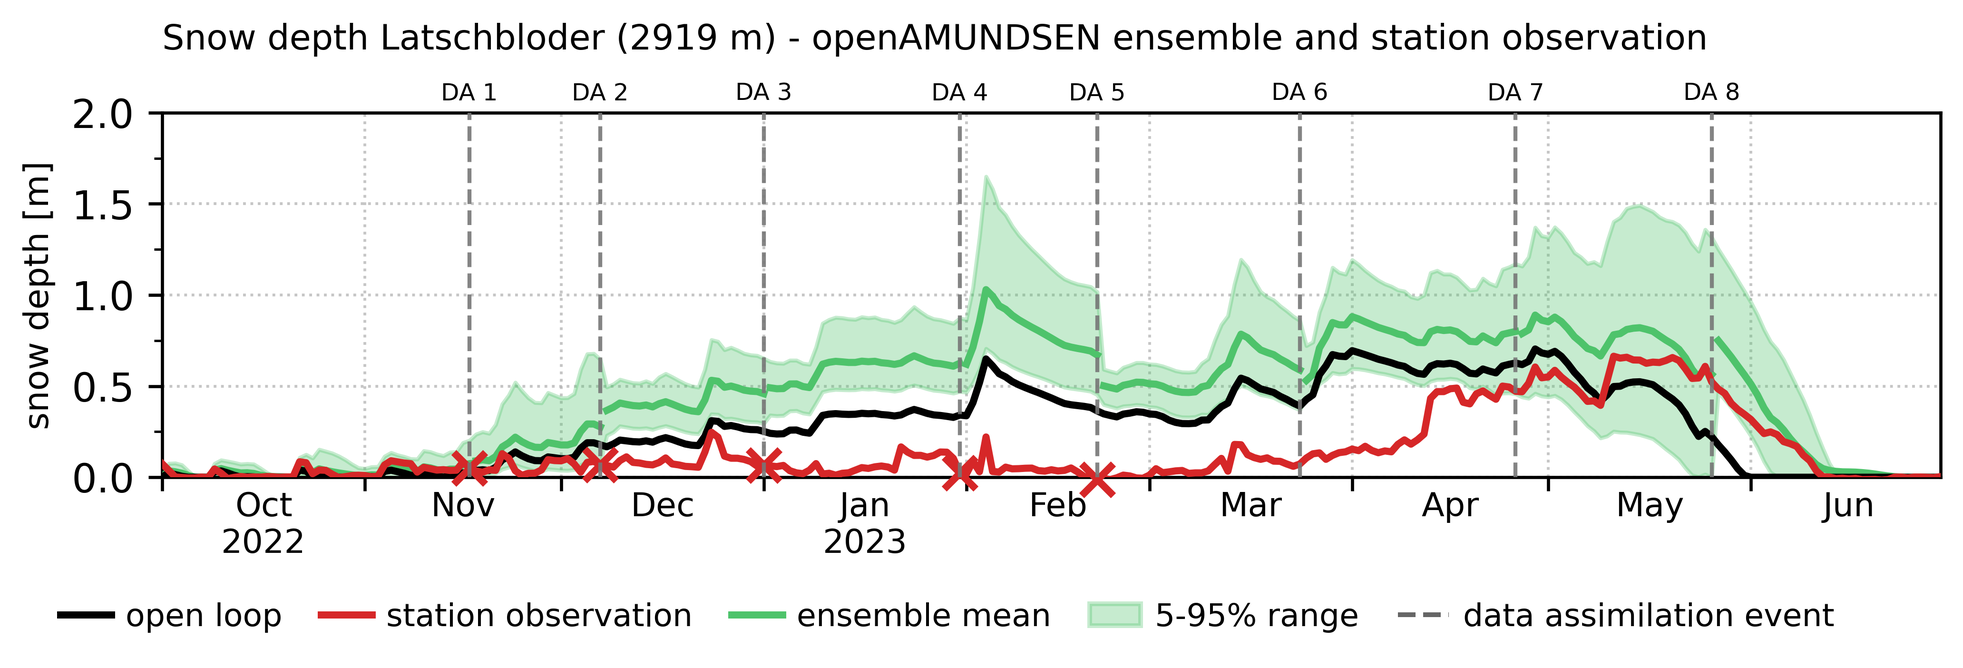
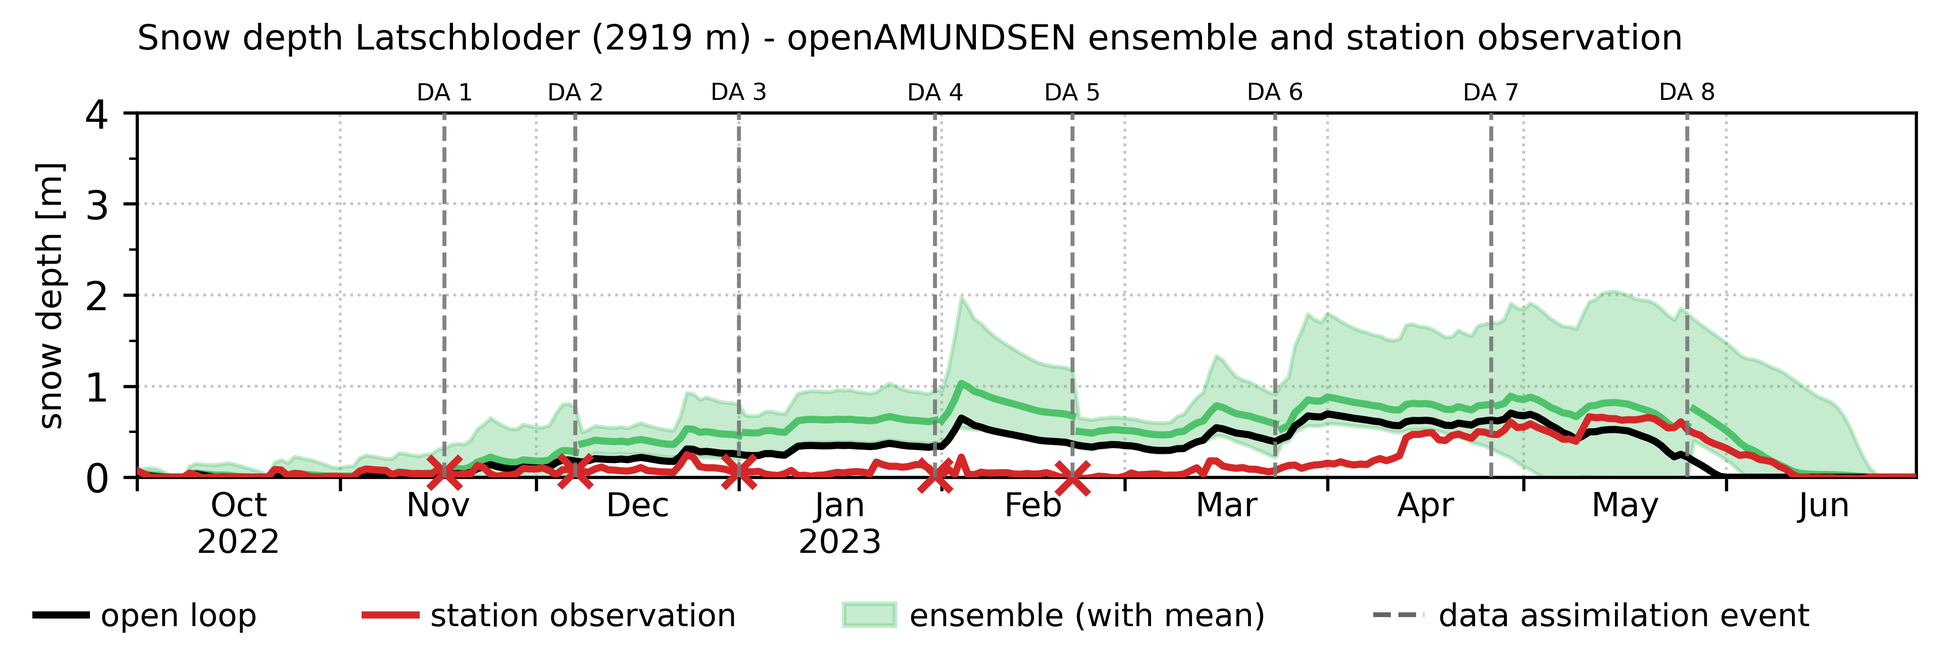
feat(viz): use full ensemble range in seasonal plots

diff --git a/tests/unit/test_plot_result_overview.py b/tests/unit/test_plot_result_overview.py
@@ -145,7 +145,7 @@ def _assert_figure_legends_clear_axes(fig) -> None:
         assert all(not legend_bbox.overlaps(other_bbox) for other_bbox in legend_bboxes[idx + 1 :])
 
 
-def test_default_wsl_overview_env_uses_prior_member_mean_quantiles_and_preserves_gaps(tmp_path: Path) -> None:
+def test_default_wsl_overview_env_uses_prior_member_mean_minmax_and_preserves_gaps(tmp_path: Path) -> None:
     project_dir = tmp_path / "project"
     member_001 = project_dir / "steps" / "step_00" / "ensembles" / "prior" / "member_001" / "results"
     member_002 = project_dir / "steps" / "step_00" / "ensembles" / "prior" / "member_002" / "results"
@@ -170,14 +170,14 @@ def test_default_wsl_overview_env_uses_prior_member_mean_quantiles_and_preserves
     assert env is not None
     assert list(env["date"]) == list(pd.to_datetime(["2023-04-29", "2023-05-11", "2023-05-15"]))
     assert env.iloc[0]["value_mean"] == 2450.0
-    assert env.iloc[0]["value_min"] == pytest.approx(2405.0)
-    assert env.iloc[0]["value_max"] == pytest.approx(2495.0)
+    assert env.iloc[0]["value_min"] == pytest.approx(2400.0)
+    assert env.iloc[0]["value_max"] == pytest.approx(2500.0)
     assert pd.isna(env.iloc[1]["value_mean"])
     assert pd.isna(env.iloc[1]["value_min"])
     assert pd.isna(env.iloc[1]["value_max"])
     assert env.iloc[2]["value_mean"] == 2650.0
-    assert env.iloc[2]["value_min"] == pytest.approx(2605.0)
-    assert env.iloc[2]["value_max"] == pytest.approx(2695.0)
+    assert env.iloc[2]["value_min"] == pytest.approx(2600.0)
+    assert env.iloc[2]["value_max"] == pytest.approx(2700.0)
     assert list(env["n"]) == [2.0, 0.0, 2.0]
 
 
@@ -197,8 +197,8 @@ def test_load_wsl_prior_coverage_frame_uses_value_model_from_weights_csv(tmp_pat
     assert frame is not None
     assert list(frame["date"]) == [pd.Timestamp("2023-05-11")]
     assert list(frame["value_mean"]) == [2500.0]
-    assert list(frame["value_min"]) == pytest.approx([2410.0])
-    assert list(frame["value_max"]) == pytest.approx([2590.0])
+    assert list(frame["value_min"]) == pytest.approx([2400.0])
+    assert list(frame["value_max"]) == pytest.approx([2600.0])
     assert list(frame["value_obs"]) == [2550.0]
     assert list(frame["n"]) == [2]
 
@@ -1034,7 +1034,7 @@ def test_plot_result_overview_uses_panel_local_legend_labels(tmp_path: Path) -> 
         assert legend_handles[1].get_color() == "#d62728"
         assert legend_handles[-1].get_color() == "#777777"
         ensemble_handle = legend_handles[3]
-        assert ensemble_handle.get_label() == "ensemble mean + 5-95% range"
+        assert ensemble_handle.get_label() == "ensemble (with mean)"
         assert isinstance(ensemble_handle, tuple)
         assert isinstance(ensemble_handle[0], Patch)
         assert isinstance(ensemble_handle[1], Line2D)
@@ -1201,7 +1201,7 @@ def test_plot_result_overview_custom_legend_includes_station_observation_when_dr
         assert len(plt.gcf().legends) == 0
         assert _axis_legend_labels(axes[1]) == [
             "open loop",
-            "ensemble mean + 5-95% range",
+            "ensemble (with mean)",
             "station observation",
         ]
         _assert_panel_legend_style(axes[1], loc=2)
@@ -1246,7 +1246,7 @@ def test_plot_result_overview_custom_legend_omits_station_observation_when_hidde
         assert len(plt.gcf().legends) == 0
         assert _axis_legend_labels(axes[1]) == [
             "open loop",
-            "ensemble mean + 5-95% range",
+            "ensemble (with mean)",
         ]
         _assert_panel_legend_style(axes[1], loc=2)
         assert out_path.is_file()

diff --git a/openamundsen_da/methods/viz/plots/result_overview.py b/openamundsen_da/methods/viz/plots/result_overview.py
@@ -688,8 +688,8 @@ def _wsl_prior_member_env(member_series: list[pd.Series] | None) -> pd.DataFrame
         return None
     n = aligned.count(axis=1)
     center = aligned.mean(axis=1, skipna=True).where(n > 0)
-    value_min = aligned.quantile(0.05, axis=1, numeric_only=True).where(n > 0)
-    value_max = aligned.quantile(0.95, axis=1, numeric_only=True).where(n > 0)
+    value_min = aligned.min(axis=1, numeric_only=True).where(n > 0)
+    value_max = aligned.max(axis=1, numeric_only=True).where(n > 0)
     out = pd.DataFrame(
         {
             "date": aligned.index,
@@ -740,8 +740,8 @@ def _load_wsl_prior_coverage_frame(project_dir: Path) -> pd.DataFrame | None:
                 {
                     "date": pd.Timestamp(date).normalize(),
                     "value_mean": summary["mean"],
-                    "value_min": summary["q05"],
-                    "value_max": summary["q95"],
+                    "value_min": summary["min"],
+                    "value_max": summary["max"],
                     "value_obs": summary["obs"],
                     "n": summary["n_members"],
                 }
@@ -847,7 +847,7 @@ def _ensemble_legend_handle(panel_style: dict[str, str]):
             Patch(facecolor=panel_style["fill"], edgecolor="none", linewidth=0.0, alpha=BAND_ALPHA),
             Line2D([0], [0], color=panel_style["line"], lw=_RESULT_OVERVIEW_DATA_LW),
         ),
-        "ensemble mean + 5-95% range",
+        "ensemble (with mean)",
     )
 
 
@@ -1124,8 +1124,8 @@ def _pad_single_day_bounds(bounds: tuple[pd.Timestamp, pd.Timestamp] | None) -> 
 def _band_frame(
     member_series: list[pd.Series] | None,
     *,
-    q_low: float = 0.05,
-    q_high: float = 0.95,
+    q_low: float = 0.0,
+    q_high: float = 1.0,
 ) -> pd.DataFrame | None:
     if not member_series:
         return None
@@ -1295,7 +1295,7 @@ def _build_result_overview_legend_handles(
                     ),
                     Line2D([0], [0], color="#666666", lw=_RESULT_OVERVIEW_DATA_LW),
                 ),
-                "ensemble mean + 5-95% range",
+                "ensemble (with mean)",
             )
         )
     if legend_state.station_observation:

diff --git a/openamundsen_da/methods/viz/plots/project_ensemble.py b/openamundsen_da/methods/viz/plots/project_ensemble.py
@@ -256,17 +256,14 @@ def _build_station_result_legend(
     if show_station_observation:
         handles.append(Line2D([0], [0], color=COLOR_DA_OBS, lw=LW_DA_OBS, label="station observation"))
     if show_ensemble_summary:
-        handles.extend(
-            [
-                Line2D([0], [0], color=mean_color, lw=LW_MEAN, label="ensemble mean"),
-                Patch(
-                    facecolor=band_color,
-                    edgecolor=band_color,
-                    linewidth=1.2,
-                    alpha=BAND_ALPHA,
-                    label="5-95% range",
-                ),
-            ]
+        handles.append(
+            Patch(
+                facecolor=band_color,
+                edgecolor=band_color,
+                linewidth=1.2,
+                alpha=BAND_ALPHA,
+                label="ensemble (with mean)",
+            )
         )
     if show_da_event:
         handles.append(Line2D([0], [0], color="#666666", lw=1.2, ls="--", label="data assimilation event"))
@@ -701,8 +698,8 @@ def plot_setup_results(
     resample: Optional[str] = None,
     resample_agg: str = "mean",
     rolling: Optional[int] = None,
-    band_low: float = 0.05,
-    band_high: float = 0.95,
+    band_low: float = 0.0,
+    band_high: float = 1.0,
     show_members: bool = False,
     backend: str = "Agg",
     log_level: str = "INFO",

diff --git a/tests/unit/test_multi_project_snow_plots.py b/tests/unit/test_multi_project_snow_plots.py
@@ -196,7 +196,7 @@ def test_cli_accepts_direct_project_dirs(tmp_path: Path) -> None:
     assert (out / "context_map.png").is_file()
 
 
-def test_station_model_series_are_daily_means_and_members_are_quantile_ready(tmp_path: Path) -> None:
+def test_station_model_series_are_daily_means_and_members_are_range_ready(tmp_path: Path) -> None:
     setup, project_1, project_2 = _build_setup(tmp_path)
     start, end = plot_mod._time_bounds([project_1, project_2])
 
@@ -208,13 +208,13 @@ def test_station_model_series_are_daily_means_and_members_are_quantile_ready(tmp
         start=start,
         end=end,
     )
-    mean, lo, hi = plot_mod.envelope(series.members, q_low=0.05, q_high=0.95)
+    mean, lo, hi = plot_mod.envelope(series.members, q_low=0.0, q_high=1.0)
 
     assert series.open_loop.loc[pd.Timestamp("2020-10-01")] == pytest.approx(2.0)
     assert len(series.members) == 2
     assert mean.loc[pd.Timestamp("2020-10-01")] == pytest.approx(2.0)
-    assert lo.loc[pd.Timestamp("2020-10-01")] == pytest.approx(1.1)
-    assert hi.loc[pd.Timestamp("2020-10-01")] == pytest.approx(2.9)
+    assert lo.loc[pd.Timestamp("2020-10-01")] == pytest.approx(1.0)
+    assert hi.loc[pd.Timestamp("2020-10-01")] == pytest.approx(3.0)
 
 
 def test_negative_observed_snow_depth_values_are_masked(tmp_path: Path) -> None:

diff --git a/tests/unit/test_fraction_envelope.py b/tests/unit/test_fraction_envelope.py
@@ -18,7 +18,7 @@ def _write_member_series(path: Path, values: list[float]) -> None:
     ).to_csv(path, index=False)
 
 
-def test_aggregate_fraction_envelope_uses_member_quantiles_and_excludes_open_loop(tmp_path: Path) -> None:
+def test_aggregate_fraction_envelope_uses_member_minmax_and_excludes_open_loop(tmp_path: Path) -> None:
     project_dir = tmp_path / "project"
     step_dir = project_dir / "steps" / "step_00"
     _write_member_series(step_dir / "ensembles" / "prior" / "open_loop" / "results" / "point_scf_roi.csv", [0.0, 0.0])
@@ -36,5 +36,5 @@ def test_aggregate_fraction_envelope_uses_member_quantiles_and_excludes_open_loo
     out = pd.read_csv(out_path)
     assert list(out["n"]) == [2, 2]
     assert list(out["value_mean"]) == pytest.approx([0.5, 0.7])
-    assert list(out["value_min"]) == pytest.approx([0.23, 0.43])
-    assert list(out["value_max"]) == pytest.approx([0.77, 0.97])
+    assert list(out["value_min"]) == pytest.approx([0.2, 0.4])
+    assert list(out["value_max"]) == pytest.approx([0.8, 1.0])

diff --git a/openamundsen_da/methods/viz/plots/multi_project_snow.py b/openamundsen_da/methods/viz/plots/multi_project_snow.py
@@ -363,7 +363,7 @@ def _plot_snow_series(
     fill_color = da_variable_fill_color(color_key)
 
     fig, ax = plt.subplots(figsize=(9.6, 3.05))
-    mean, lo, hi = envelope(series.members, q_low=0.05, q_high=0.95)
+    mean, lo, hi = envelope(series.members, q_low=0.0, q_high=1.0)
     if not mean.empty:
         ax.fill_between(mean.index, lo.values, hi.values, color=fill_color, alpha=BAND_ALPHA, edgecolor="none", zorder=2)
         ax.plot(mean.index, mean.values, color=line_color, lw=LW_MEAN, zorder=4)
@@ -385,8 +385,7 @@ def _plot_snow_series(
     if not mean.empty:
         handles.extend(
             [
-                Line2D([0], [0], color=line_color, lw=LW_MEAN, label="ensemble mean"),
-                Patch(facecolor=fill_color, edgecolor=fill_color, alpha=BAND_ALPHA, label="5-95% ensemble range"),
+                Patch(facecolor=fill_color, edgecolor=fill_color, alpha=BAND_ALPHA, label="ensemble (with mean)"),
             ]
         )
     if series.obs is not None and not series.obs.empty:

diff --git a/openamundsen_da/methods/viz/plots/results_ensemble.py b/openamundsen_da/methods/viz/plots/results_ensemble.py
@@ -44,8 +44,8 @@ from openamundsen_da.util.loguru_utils import configure_cli_logger
 
 
 FIGSIZE = (12.0, 5.2)
-DEFAULT_BAND_LOW = 0.05
-DEFAULT_BAND_HIGH = 0.95
+DEFAULT_BAND_LOW = 0.0
+DEFAULT_BAND_HIGH = 1.0
 
 
 def _list_point_files(step_dir: Path, ensemble: str) -> Tuple[Optional[Path], List[str]]:
@@ -104,10 +104,10 @@ def _plot_point_station(
                 hi,
                 color=COLOR_MEAN,
                 alpha=BAND_ALPHA,
-                label="5-95% ensemble range",
+                label="ensemble (with mean)",
                 zorder=2,
             )
-            ax.plot(mean.index, mean.values, color=COLOR_MEAN, lw=LW_MEAN, label="ensemble mean", zorder=4)
+            ax.plot(mean.index, mean.values, color=COLOR_MEAN, lw=LW_MEAN, label="_nolegend_", zorder=4)
 
     if open_loop is not None and _series_has_data(open_loop):
         ax.plot(open_loop.index, open_loop.values, color=COLOR_OPEN_LOOP, lw=LW_OPEN, label="open loop", zorder=5)

diff --git a/tests/unit/test_plot_project_ensemble.py b/tests/unit/test_plot_project_ensemble.py
@@ -116,7 +116,7 @@ def test_plot_setup_results_members_mode_draws_members_without_band(tmp_path: Pa
         original_close("all")
 
 
-def test_plot_setup_results_band_mode_uses_quantile_band(tmp_path: Path) -> None:
+def test_plot_setup_results_band_mode_uses_configured_band(tmp_path: Path) -> None:
     import matplotlib.pyplot as plt
 
     project_dir = _build_project(tmp_path)
@@ -136,7 +136,7 @@ def test_plot_setup_results_band_mode_uses_quantile_band(tmp_path: Path) -> None
         assert len(ax.collections) == 1
         assert len(ax.lines) == 3
         legend_labels = [text.get_text() for text in fig.legends[0].get_texts()]
-        assert legend_labels == ["open loop", "ensemble mean", "5-95% range", "data assimilation event"]
+        assert legend_labels == ["open loop", "ensemble (with mean)", "data assimilation event"]
     finally:
         plt.close = original_close
         original_close("all")

diff --git a/openamundsen_da/util/fraction_envelope.py b/openamundsen_da/util/fraction_envelope.py
@@ -8,7 +8,7 @@ Description:
     Looks for member CSVs (e.g., point_scf_roi.csv or point_wet_snow_roi.csv)
     under <setup>/steps/step_*/ensembles/prior/*/results and writes an envelope CSV
     with date, value_mean, value_min, value_max, n. The envelope bounds are
-    the 5th and 95th percentiles of finite member values.
+    the finite-member minimum and maximum.
 """
 
 from __future__ import annotations
@@ -101,8 +101,8 @@ def aggregate_fraction_envelope(
         {
             "date": grp.mean().index,
             "value_mean": grp.mean().values,
-            "value_min": grp.quantile(0.05).values,
-            "value_max": grp.quantile(0.95).values,
+            "value_min": grp.min().values,
+            "value_max": grp.max().values,
             "n": grp.count().values,
         }
     ).sort_values("date")

diff --git a/openamundsen_da/util/stats.py b/openamundsen_da/util/stats.py
@@ -285,16 +285,17 @@ def compute_obs_sigma(
 
 def envelope(
     series_list: list[pd.Series],
-    q_low: float = 0.05,
-    q_high: float = 0.95,
+    q_low: float = 0.0,
+    q_high: float = 1.0,
     *,
     min_count: int = 1,
 ) -> tuple[pd.Series, pd.Series, pd.Series]:
-    """Return (mean, q_low, q_high) across a list of series (union alignment).
+    """Return (mean, low, high) across a list of series (union alignment).
 
     - Aligns on the union of timestamps (outer join) and computes row-wise
       statistics while ignoring NaNs (skipna).
     - Drops timestamps with fewer than ``min_count`` available series.
+    - Defaults to the finite-member min-max range.
     """
     if not series_list:
         return pd.Series(dtype=float), pd.Series(dtype=float), pd.Series(dtype=float)

diff --git a/README.md b/README.md
@@ -266,7 +266,7 @@ Project runs now aggregate member ROI series into:
 - `results/misc/point_wet_snow_roi_envelope.csv`
 - `results/misc/point_wet_snow_line_roi_envelope.csv`
 
-Each contains `date, value_mean, value_min, value_max, n` computed from all available prior member `point_*_roi.csv` files; `value_min` and `value_max` are the 5th and 95th percentiles of finite member values. Generate manually if needed:
+Each contains `date, value_mean, value_min, value_max, n` computed from all available prior member `point_*_roi.csv` files; `value_min` and `value_max` are the finite-member minimum and maximum. Generate manually if needed:
 
 ```powershell
 docker compose run --rm oa `
@@ -288,7 +288,7 @@ docker compose run --rm oa `
   --project-dir $project
 ```
 
-Defaults read obs from `obs/summaries/<setup>/scf_summary.csv`, `wet_snow_summary.csv`, and `wet_snow_line_diagnostics.csv`, use the canonical project envelopes under `results/misc/` for SCF / WSF / WSLA, and write `results/plots/results/result_overview.png`. The default setup overview expands to a 5-panel layout when WSLA data are available: fractional snow covered area (fSCA), wet snow fraction (WSF), wet snow line altitude (WSLA), ROI mean SWE, and ROI mean snow depth. Seasonal ensemble bands show the finite-member 5th-95th percentile range with an ensemble mean line. The WSLA panel uses the daily `open_loop` scalar from `point_wet_snow_line_roi.csv`, while the ensemble WSLA line / band is built from stitched prior-member `point_wet_snow_line_roi.csv` series using the same finite-member mean and 5th-95th percentile convention. On `wet_snow_line` assimilation dates the panel also draws compact event-date coverage bars from `weights_wet_snow_line_YYYYMMDD.csv`, using the exact support-aware PF `value_model` scalars for the 5th percentile, mean and 95th percentile spread at that event. In v1 those `wet_snow_line` values represent the basin-wide **50% wet-fraction crossing**, while the aspect-aware relative-threshold WSLA remains a diagnostics-only companion written to the same seasonal/profile CSV family. When that `50%` crossing is undefined, the overview keeps a true gap in the WSLA model and ensemble lines and omits observation dots / assimilation `x` markers for that date instead of falling back to `p95`. Observation `x` markers are only drawn on the panel for the actually assimilated variable, so `wet_snow_line` events do not mark the WSF panel unless `wet_snow` itself is assimilated. Month labels are centered between month-boundary ticks, and local panel legends distinguish ordinary observations from assimilated observations where both are shown. Add `--scf-model-csv` / `--wet-model-csv` / `--wsl-model-csv` to overlay specific member series or `--scf-env-csv` / `--wet-env-csv` / `--wsl-env-csv` to use custom envelopes. Plot mode can be switched with `--mode band|members` (pipeline default: `band`). When `<project-dir>/plots.yml` exists, the requested panel order and station panels from that YAML configure the standard `result_overview.png`; configured panels support `WSF`, `WSLA`, `scores-crpss`, `scores-ner`, and station-only `scores-zskill`.
+Defaults read obs from `obs/summaries/<setup>/scf_summary.csv`, `wet_snow_summary.csv`, and `wet_snow_line_diagnostics.csv`, use the canonical project envelopes under `results/misc/` for SCF / WSF / WSLA, and write `results/plots/results/result_overview.png`. The default setup overview expands to a 5-panel layout when WSLA data are available: fractional snow covered area (fSCA), wet snow fraction (WSF), wet snow line altitude (WSLA), ROI mean SWE, and ROI mean snow depth. Seasonal ensemble bands show the full finite-member range with an ensemble mean line. The WSLA panel uses the daily `open_loop` scalar from `point_wet_snow_line_roi.csv`, while the ensemble WSLA line / band is built from stitched prior-member `point_wet_snow_line_roi.csv` series using the same finite-member mean and min-max range convention. On `wet_snow_line` assimilation dates the panel also draws compact event-date coverage bars from `weights_wet_snow_line_YYYYMMDD.csv`, using the exact support-aware PF `value_model` scalars for the finite-member minimum, mean and maximum spread at that event. In v1 those `wet_snow_line` values represent the basin-wide **50% wet-fraction crossing**, while the aspect-aware relative-threshold WSLA remains a diagnostics-only companion written to the same seasonal/profile CSV family. When that `50%` crossing is undefined, the overview keeps a true gap in the WSLA model and ensemble lines and omits observation dots / assimilation `x` markers for that date instead of falling back to `p95`. Observation `x` markers are only drawn on the panel for the actually assimilated variable, so `wet_snow_line` events do not mark the WSF panel unless `wet_snow` itself is assimilated. Month labels are centered between month-boundary ticks, and local panel legends distinguish ordinary observations from assimilated observations where both are shown. Add `--scf-model-csv` / `--wet-model-csv` / `--wsl-model-csv` to overlay specific member series or `--scf-env-csv` / `--wet-env-csv` / `--wsl-env-csv` to use custom envelopes. Plot mode can be switched with `--mode band|members` (pipeline default: `band`). When `<project-dir>/plots.yml` exists, the requested panel order and station panels from that YAML configure the standard `result_overview.png`; configured panels support `WSF`, `WSLA`, `scores-crpss`, `scores-ner`, and station-only `scores-zskill`.
 
 ## Setup point results (SWE / snow depth, member mode)
 
@@ -477,7 +477,7 @@ docker compose run --rm oa `
 
 This uses per-member `point_scf_roi.csv` files (model SCF derived from HS/SWE grids) written under each member's `results` directory and overlays observed SCF from `obs/summaries/<setup>/scf_summary.csv` when available.
 
-Defaults: ensemble members are hidden; plots show the ensemble mean, the 90% envelope (5-95% quantiles), and the open loop. Use `--show-members` to draw all members.
+Defaults: ensemble members are hidden; plots show the ensemble mean, the full finite-member range, and the open loop. Use `--show-members` to draw all members.
 Optional: `--station`, `--max-stations`, `--start-date`, `--end-date`, `--resample`, `--rolling`, `--hydro-month`, `--hydro-day`, `--backend`, `--log-level`, `--var-label`, `--var-units`, `--band-low`, `--band-high`, `--show-members`.
 
 Note: running the project pipeline (see below) also generates these plots automatically under `<project_dir>/results/plots/` when the required model outputs and observation summaries are present.
@@ -678,7 +678,7 @@ Outputs
 - When model SCF is enabled, daily ROI-mean SCF per member is written to `<step>/ensembles/prior/<member>/results/point_scf_roi.csv`.
 - Full-ROI daily mean SWE and snow depth are written to `<step>/ensembles/prior/<member>/results/point_swe_roi.csv` and `<step>/ensembles/prior/<member>/results/point_snow_depth_roi.csv`.
 - The combined project result overview plot (`results/plots/results/result_overview.png`) now shows fSCA, WSF, WSLA, ROI mean SWE, and ROI mean snow depth together when those outputs are available.
-  Setup results plots now show the ensemble mean, the 90% envelope (5-95% quantiles), and the open loop by default; individual members are hidden unless `--show-members` is passed to the plot CLI. Wet-snow setup plots overlay available observations from `obs/<setup>/wet_snow_summary.csv` automatically.
+  Setup results plots now show the ensemble mean, the full finite-member range, and the open loop by default; individual members are hidden unless `--show-members` is passed to the plot CLI. Wet-snow setup plots overlay available observations from `obs/<setup>/wet_snow_summary.csv` automatically.
   At the end of the project run, per-step weights plots (`step_XX_weights.png`) and the setup ESS timeline (`setup_ess_timeline_<setup_id>.png`) are also generated under `<project_dir>/results/plots/assim/{weights,ess}`.
   Single-domain projects default to compact retention (`data_assimilation.output.retention: compact`), which prunes heavy member grid artifacts after writing `da_output_grids.nc`. Sub-domain projects default to `retention: full` so generated DA-event maps can be regenerated exactly after the run. If compact retention is enabled for a sub-domain project, raw grid support files are only archived after the merged grid, all planned DA maps, and the top-level report are present.
 

diff --git a/docs/guides/cli.md b/docs/guides/cli.md
@@ -187,8 +187,8 @@ oa-da-plot-multi-project-snow \
 - `--log-level LEVEL` - Logging level
 
 **Output behavior:**
-- station plots show open loop, ensemble mean, the 5-95% member envelope and station observations where available
-- ROI plots show open loop, ensemble mean and the 5-95% member envelope
+- station plots show open loop, ensemble mean, the full finite-member range and station observations where available
+- ROI plots show open loop, ensemble mean and the full finite-member range
 - station model and station observations are aggregated to daily means; ROI result CSVs are used at their native daily cadence
 - negative station observations are masked before daily aggregation
 - missing observations do not fail a plot; the station plot is written model-only
@@ -542,7 +542,7 @@ Copies selected rows from `wet_snow_summary.csv` into per-step `obs_wet_snow_<PR
 
 **Setup result overview**
 
-Plots the combined setup result overview: fSCA, WSF, WSLA, ROI mean SWE, and ROI mean snow depth. The ROI SWE and snow-depth panels use the full ROI footprint, keep `open_loop` separate, and derive the 5-95% band from ensemble members only. Figure legends are built from rendered plot elements, so unused observation, ensemble, open-loop, or DA-event entries are omitted. Observation `x` markers identify assimilated observations, and month labels are centered between month-boundary ticks. If `<project-dir>/plots.yml` exists, the configured panel list is used for the standard `result_overview.png`. Configured panels support `WSF`, `WSLA`, `scores-crpss`, `scores-ner`, and station-only `scores-zskill` to embed the benchmark score panels individually.
+Plots the combined setup result overview: fSCA, WSF, WSLA, ROI mean SWE, and ROI mean snow depth. The ROI SWE and snow-depth panels use the full ROI footprint, keep `open_loop` separate, and derive the full finite-member range from ensemble members only. Figure legends are built from rendered plot elements, so unused observation, ensemble, open-loop, or DA-event entries are omitted. Observation `x` markers identify assimilated observations, and month labels are centered between month-boundary ticks. If `<project-dir>/plots.yml` exists, the configured panel list is used for the standard `result_overview.png`. Configured panels support `WSF`, `WSLA`, `scores-crpss`, `scores-ner`, and station-only `scores-zskill` to embed the benchmark score panels individually.
 
 ```bash
 oa-da-plot-result-overview \
